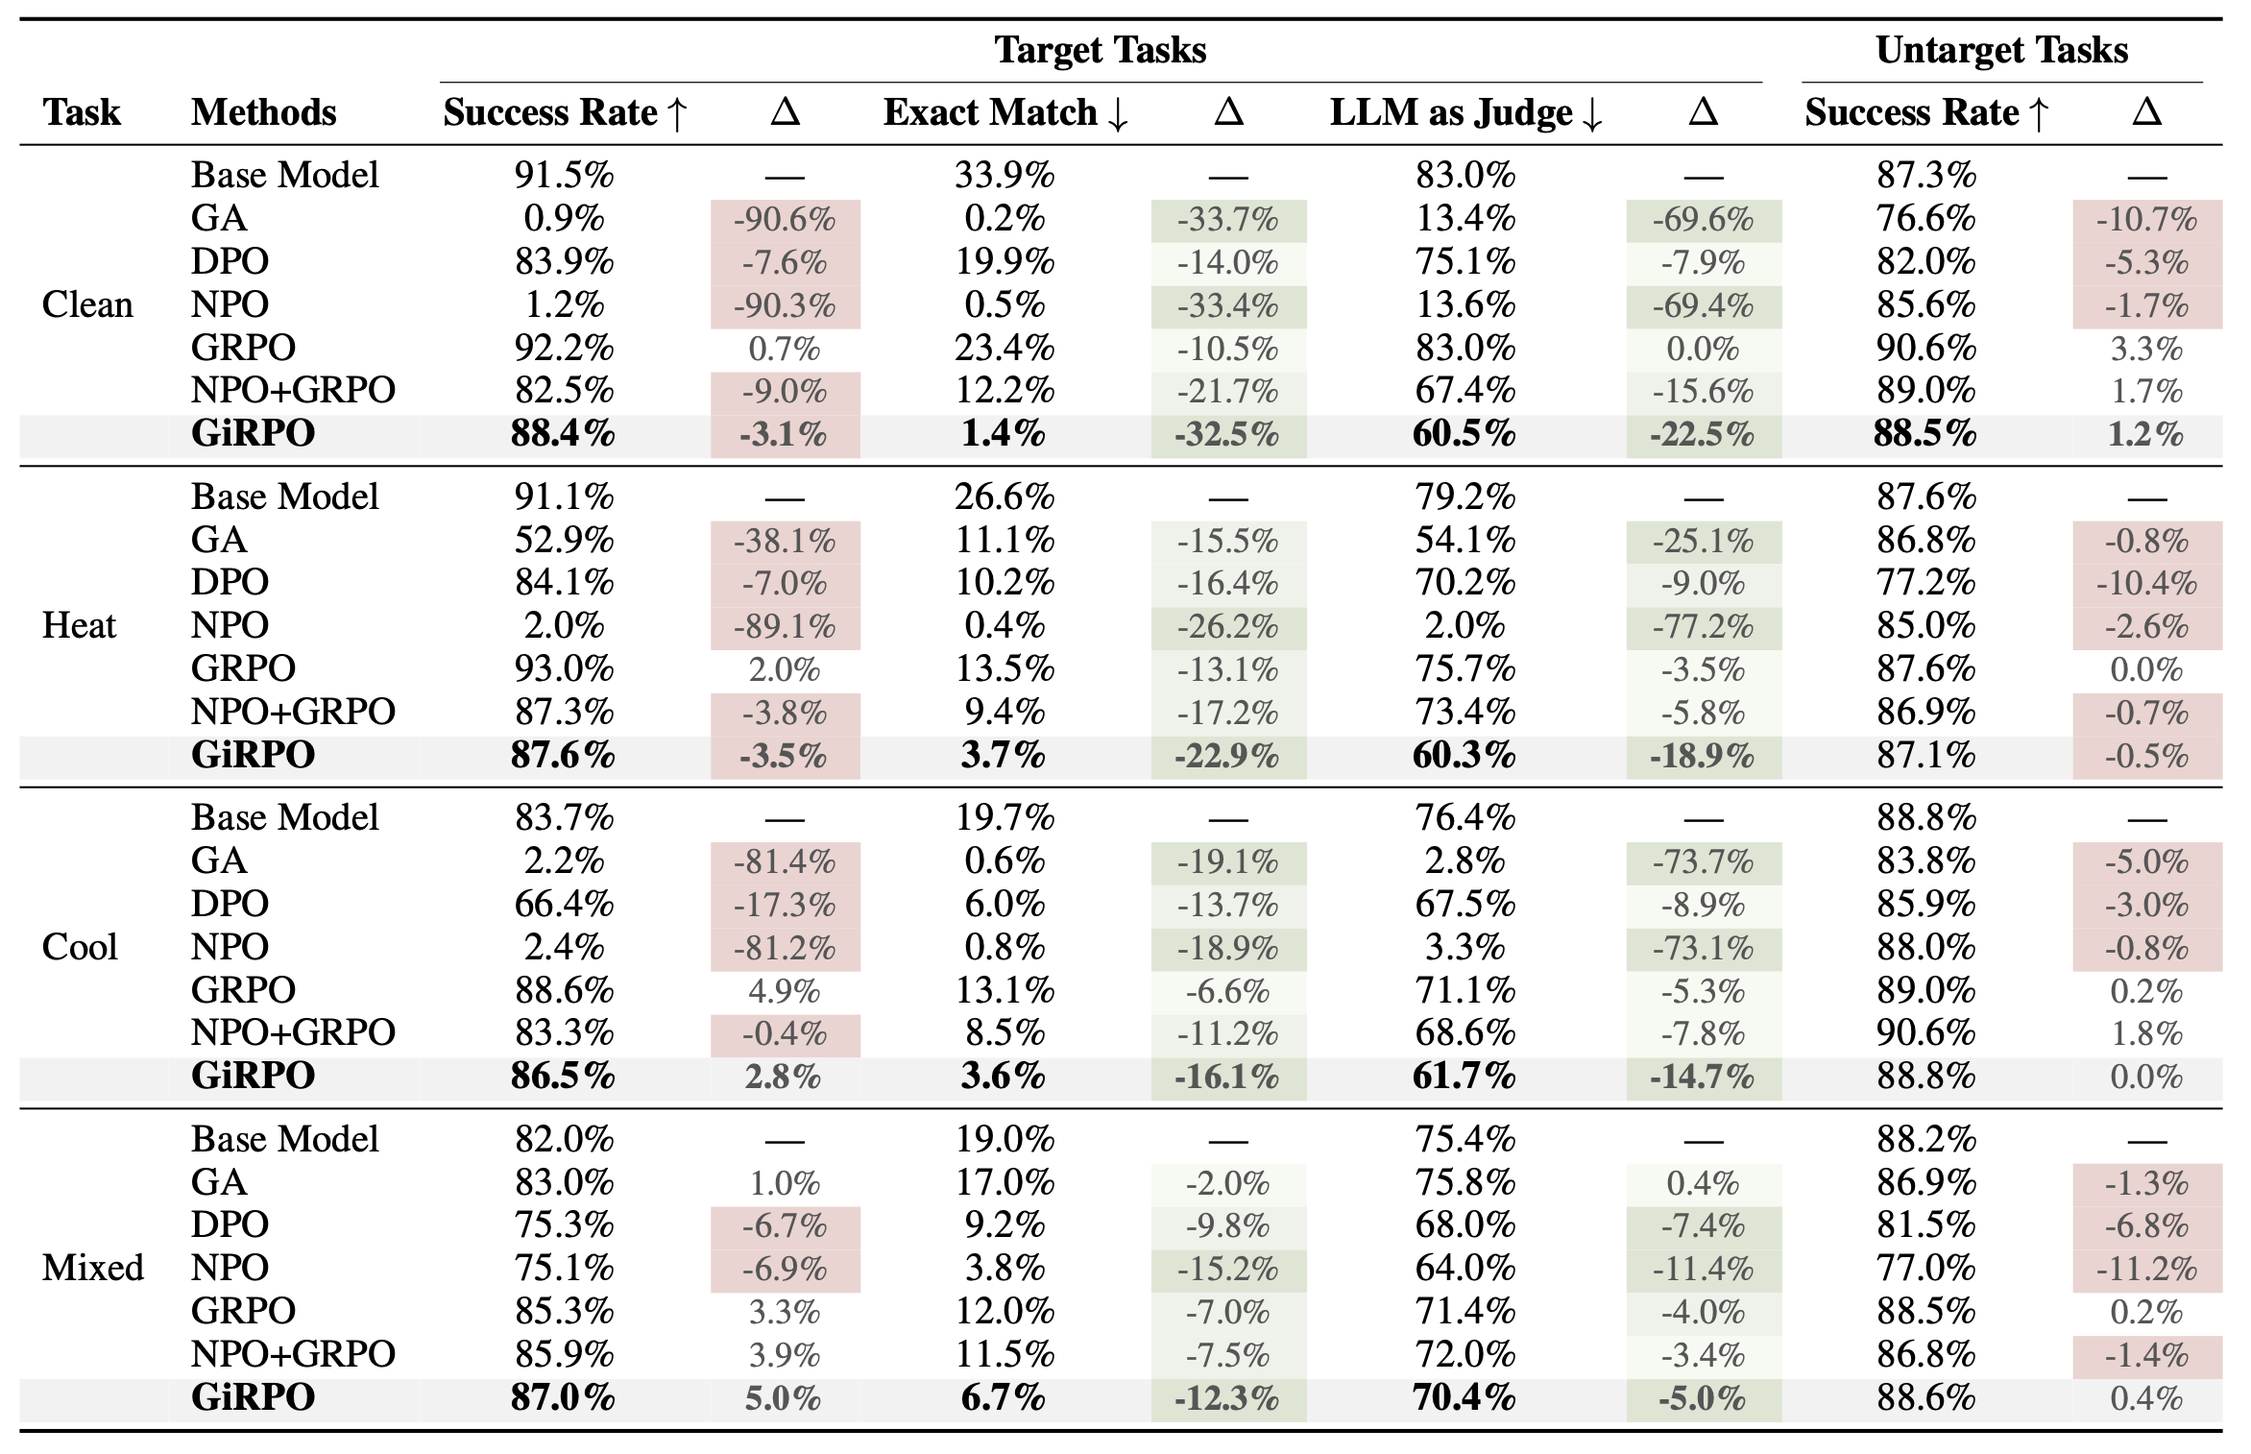
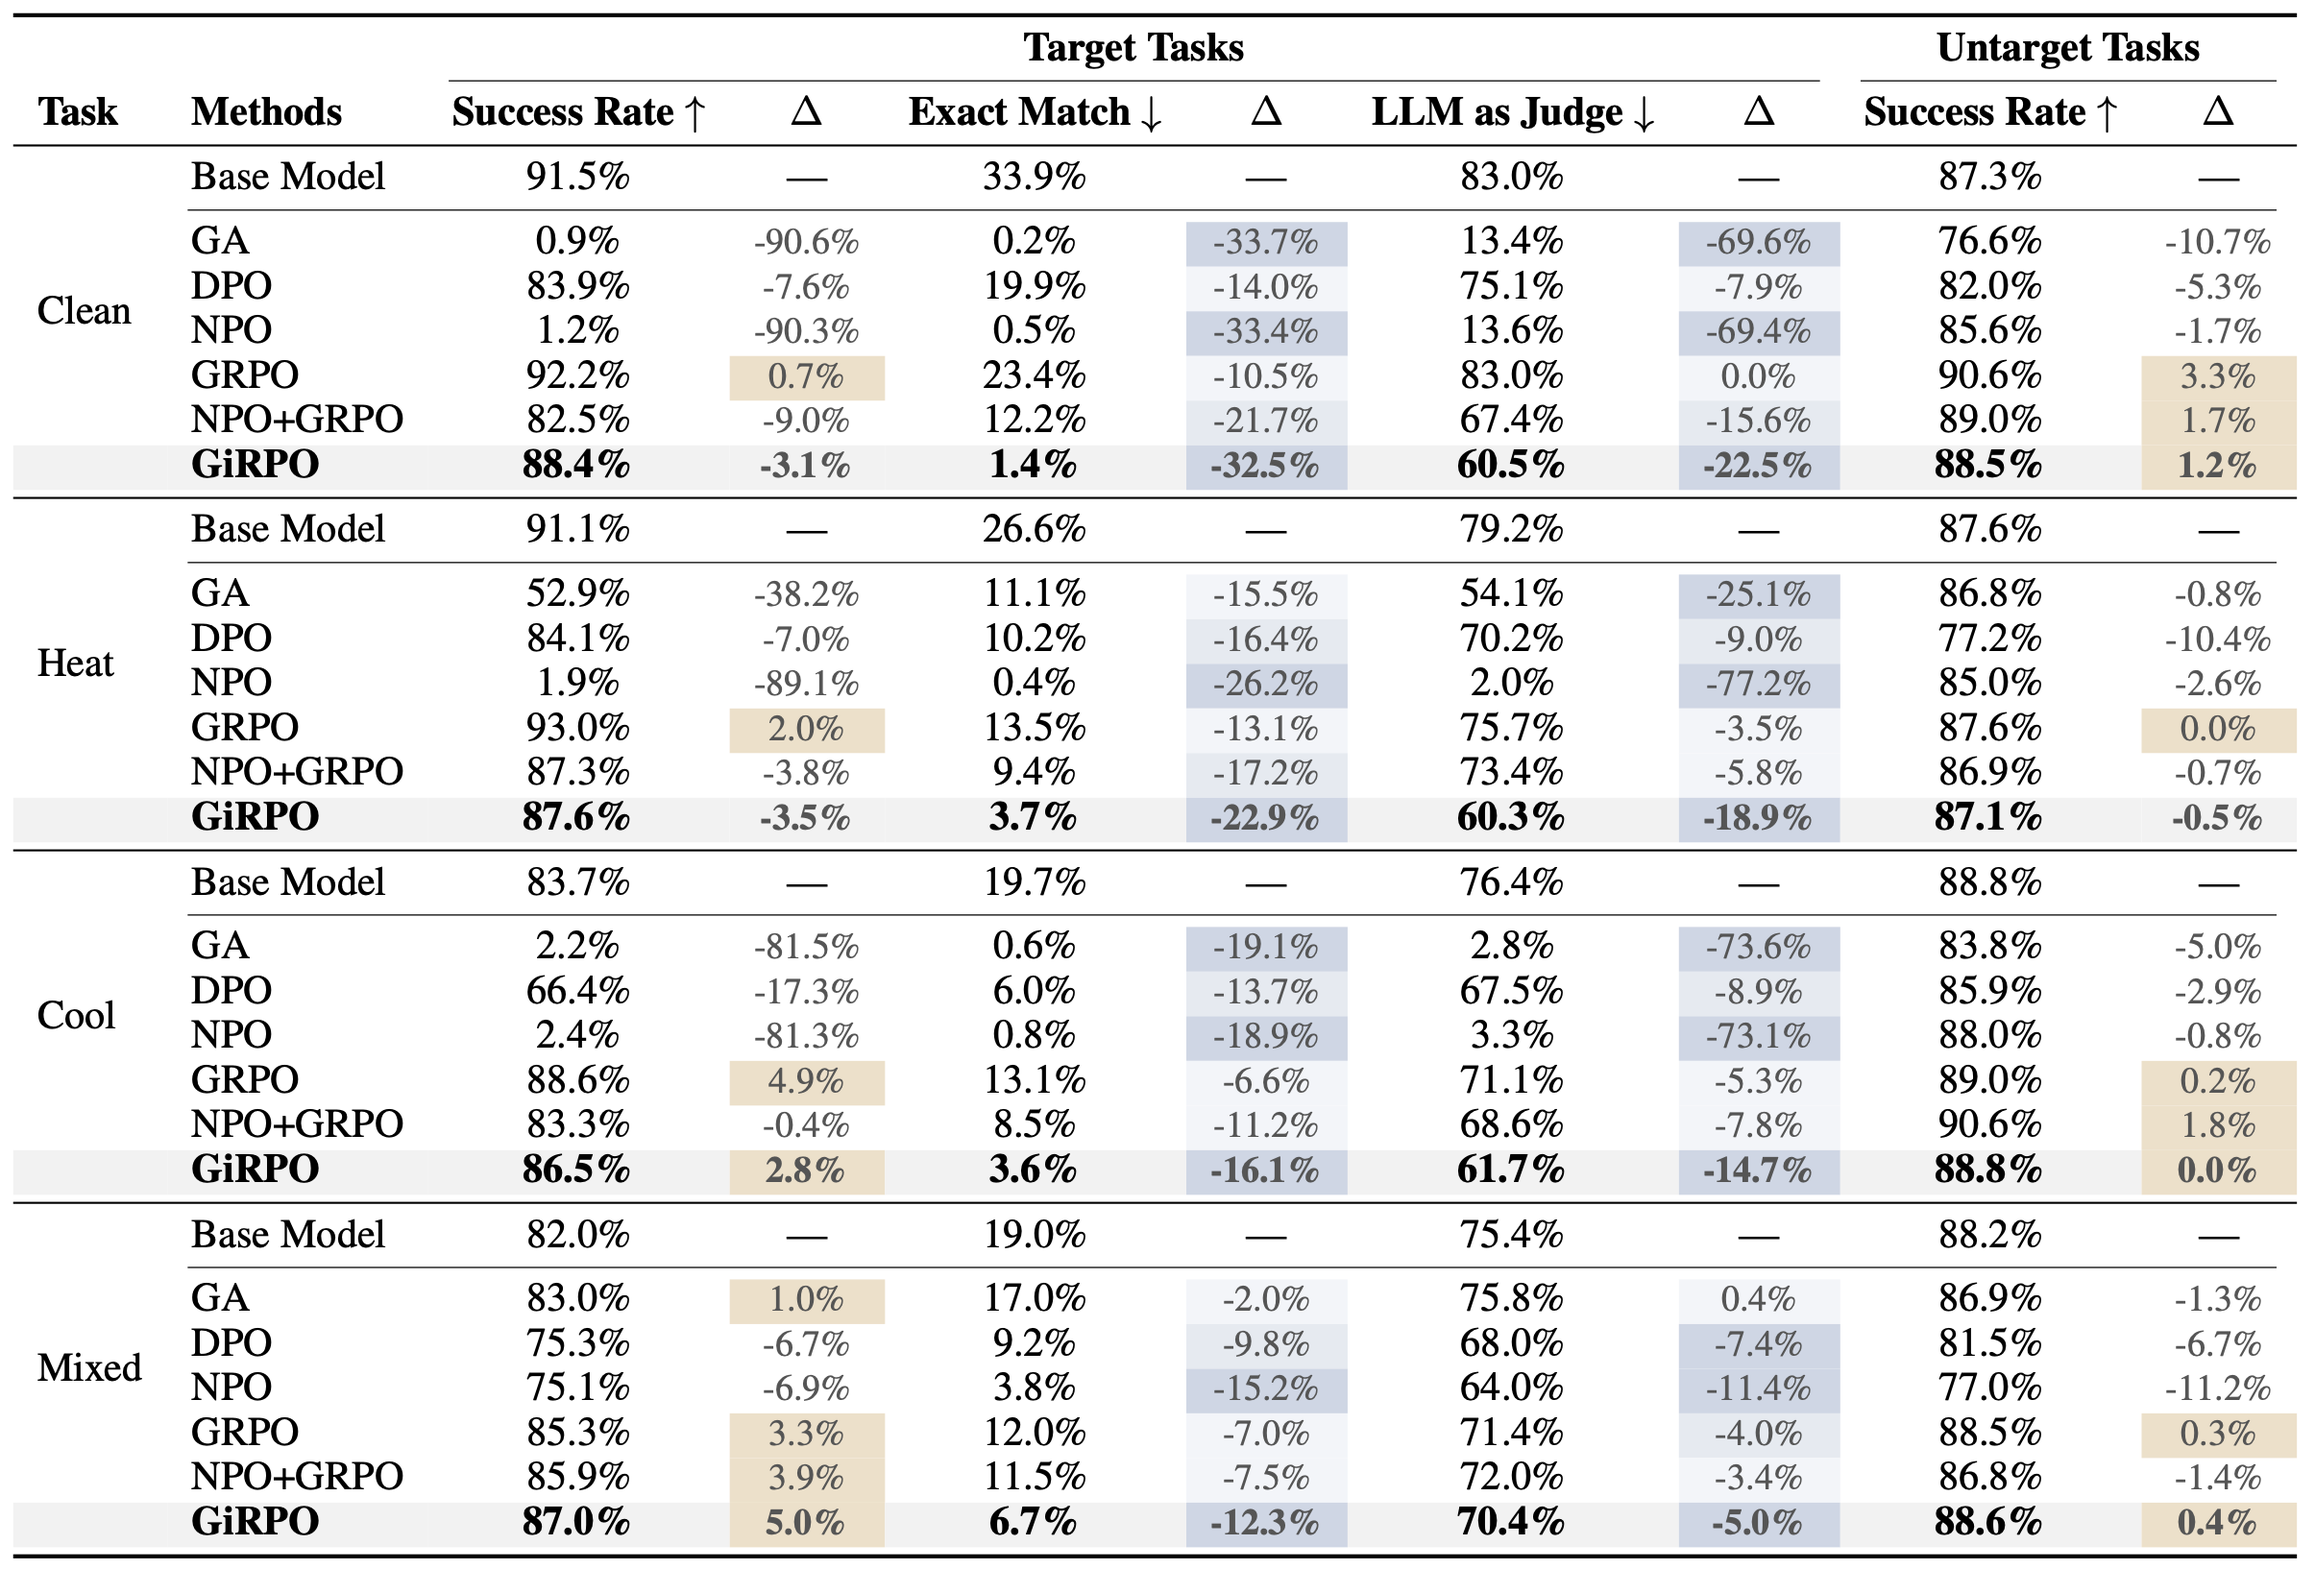
Update News

Changed region(s): [[0.0, 0.0, 0.9966, 0.9934]]

diff --git a/Trajectory_Unlearning/index.html b/Trajectory_Unlearning/index.html
@@ -32,6 +32,8 @@
   <meta name="citation_author" content="Shi, Yingdan">
   <meta name="citation_author" content="Wang, Ren">
   <meta name="citation_publication_date" content="2026">
+  <meta name="citation_pdf_url" content="https://arxiv.org/pdf/2609.33639">
+  <meta name="citation_arxiv_id" content="2609.33639">
 
   <link rel="icon" type="image/png" href="static/images/traj/traj-icon.png">
   <link rel="apple-touch-icon" href="static/images/traj/traj-icon.png">
@@ -52,7 +54,8 @@
     ],
     "datePublished": "2026",
     "keywords": ["trajectory unlearning", "LLM agents", "machine unlearning", "agentic reinforcement learning"],
-    "isAccessibleForFree": true
+    "isAccessibleForFree": true,
+    "sameAs": "https://arxiv.org/abs/2609.33639"
   }
   </script>
 </head>
@@ -81,9 +84,9 @@
         <span class="nav-icon disabled" title="Hugging Face paper coming soon" aria-label="Hugging Face paper coming soon" aria-disabled="true">
           <img class="hf-logo" src="static/images/huggingface-logo.svg" alt="" width="21" height="20">
         </span>
-        <span class="nav-icon disabled" title="Paper coming soon" aria-label="Paper coming soon" aria-disabled="true">
+        <a class="nav-icon" href="https://arxiv.org/abs/2609.33639" target="_blank" rel="noopener" title="Read the paper on arXiv" aria-label="Read the paper on arXiv">
           <i class="fas fa-file-pdf" aria-hidden="true"></i>
-        </span>
+        </a>
         <a class="nav-icon" href="https://github.com/TIML-Group/Trajectory-Unlearning" target="_blank" rel="noopener" title="Code on GitHub" aria-label="Code on GitHub">
           <i class="fab fa-github" aria-hidden="true"></i>
         </a>
@@ -123,10 +126,10 @@
             <img class="hf-logo" src="static/images/huggingface-logo.svg" alt="" width="19" height="18">
             <span>HF</span>
           </span>
-          <span class="resource-button disabled" aria-disabled="true" title="Coming soon">
+          <a class="resource-button" href="https://arxiv.org/abs/2609.33639" target="_blank" rel="noopener">
             <i class="fas fa-file-pdf" aria-hidden="true"></i>
             <span>Paper</span>
-          </span>
+          </a>
           <a class="resource-button primary" href="https://github.com/TIML-Group/Trajectory-Unlearning" target="_blank" rel="noopener">
             <i class="fab fa-github" aria-hidden="true"></i>
             <span>Code</span>
@@ -336,8 +339,9 @@
         <div>
           <p class="eyebrow">Citation</p>
           <h2>Resources and citation</h2>
-          <p>Code is available now.</p>
+          <p>The paper and code are available now.</p>
           <div class="citation-actions">
+            <a class="text-link" href="https://arxiv.org/abs/2609.33639" target="_blank" rel="noopener">arXiv <i class="fas fa-external-link-alt" aria-hidden="true"></i></a>
             <a class="text-link" href="https://github.com/TIML-Group/Trajectory-Unlearning" target="_blank" rel="noopener">GitHub <i class="fas fa-external-link-alt" aria-hidden="true"></i></a>
           </div>
         </div>
@@ -350,10 +354,10 @@
             </button>
           </div>
           <pre id="bibtex-code"><code>@article{shi2026traj,
-  title  = {Trajectory Unlearning on LLM-based Agents},
-  author = {Shi, Yingdan and Wang, Ren},
-  year   = {2026},
-  note   = {Preprint}
+  title   = {Trajectory Unlearning on LLM-based Agents},
+  author  = {Shi, Yingdan and Wang, Ren},
+  year    = {2026},
+  journal = {arXiv preprint arXiv:2609.33639}
 }</code></pre>
         </div>
       </div>

diff --git a/_news/TrajUnlearn.md b/_news/TrajUnlearn.md
@@ -1,0 +1,7 @@
+---
+layout: post
+date: 2026-09-28 15:59:00-0400
+inline: true
+---
+
+:tada: Our paper about <a href="https://arxiv.org/abs/2609.33639">Trajectory unlearning on LLM-based Agents</a> is released.
